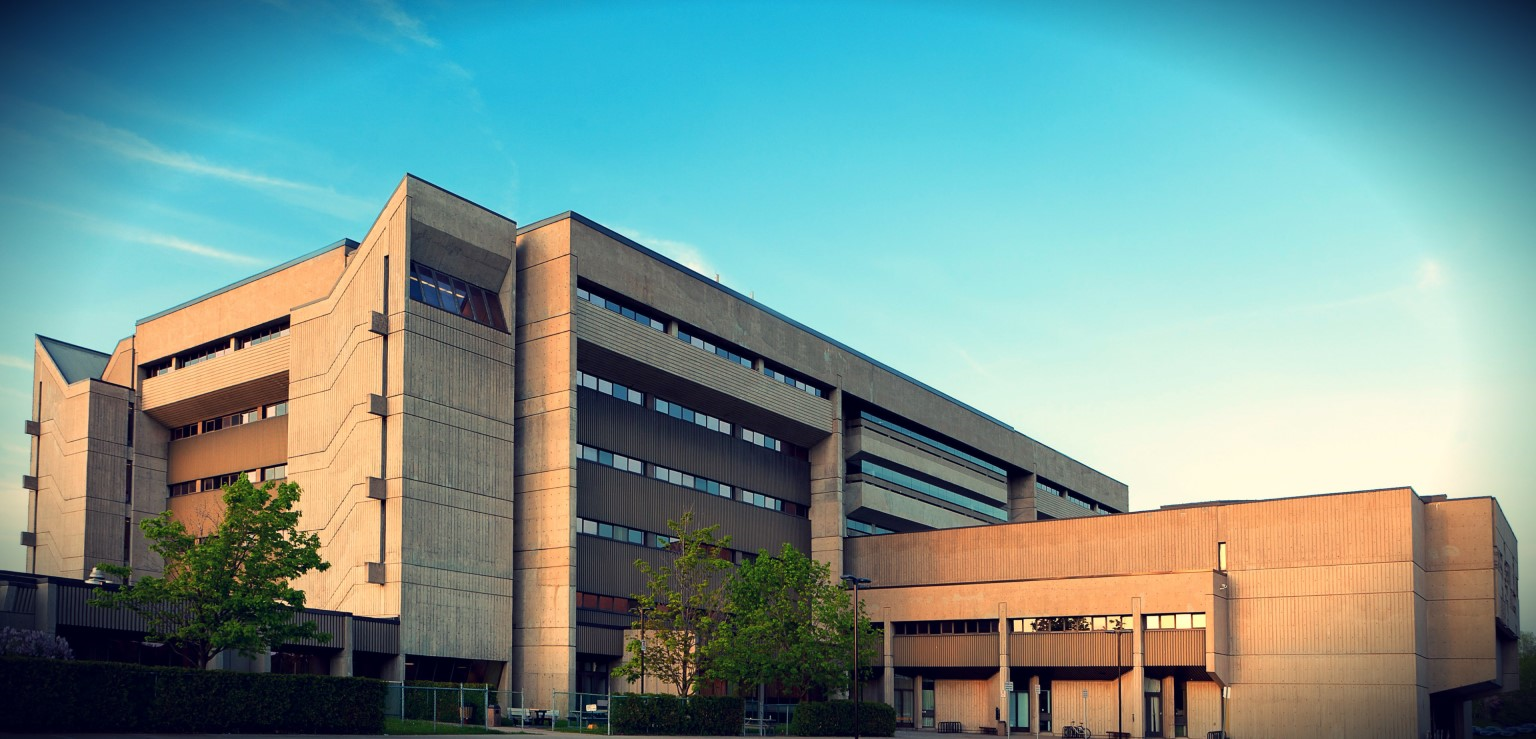
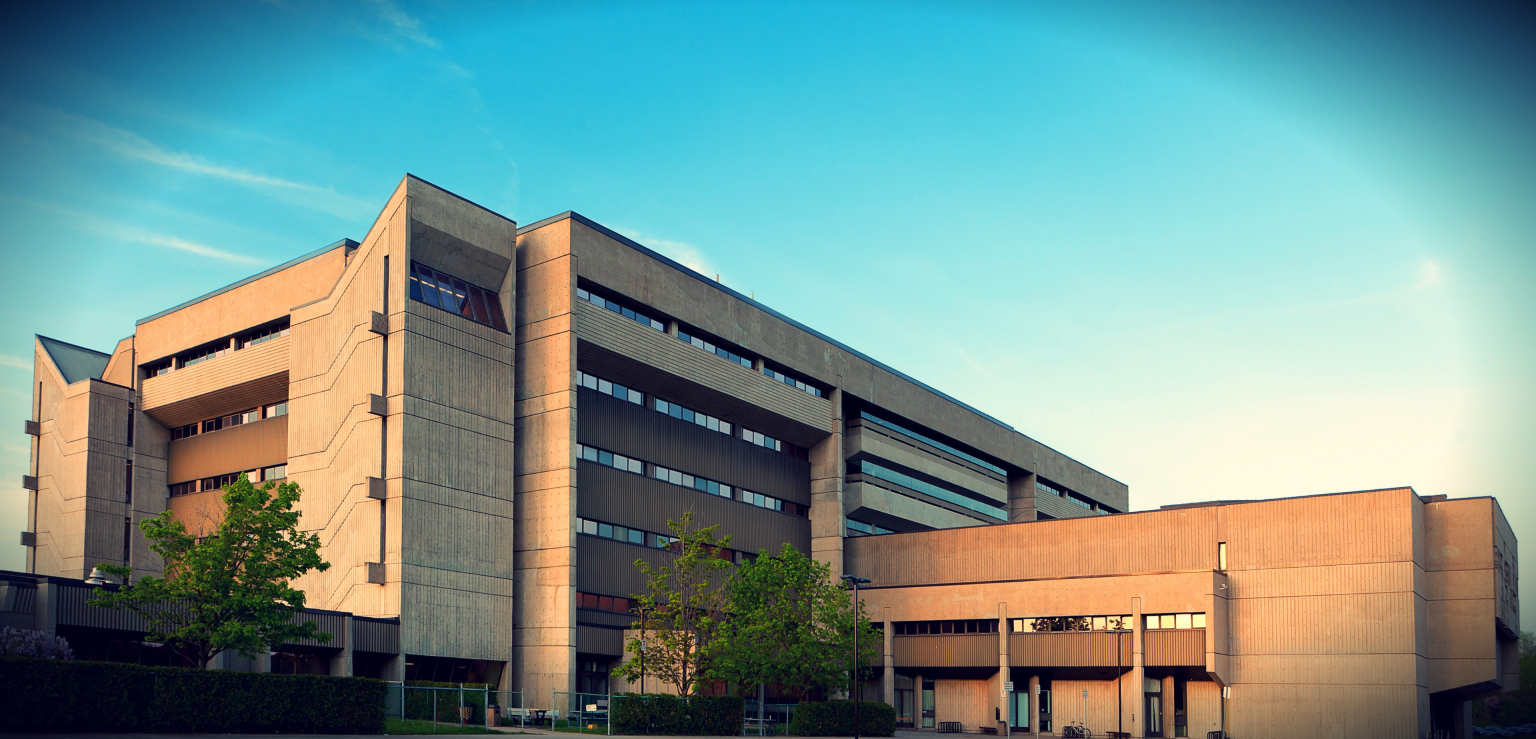
cpage onnexion responsive à 100%, reste inscription

Changed region(s): [[0.4062, 0.8092, 0.4375, 0.8403]]

diff --git a/my-react-app/src/components/utilisateurs/login/pages/Connexion.css b/my-react-app/src/components/utilisateurs/login/pages/Connexion.css
@@ -1,31 +1,115 @@
-html, body, #app, #app>div {
-    height: 100%
-}
-
-.imageLogo {
-    left: 36px;
-    top: 36px;
-    position: absolute;
-    justify-content: center;
+.appConnexion {
+    display: flex;
+    flex-direction: column;
     align-items: center;
-    gap: 8px;
-    display: inline-flex
-}
-
-.imageBackground {
-    display: block;
-    margin-left: auto;
+    gap: 20px;
+    height: auto;
+    font-family: 'Roboto';
 }
 
 .formConnexion {
-    left: 100px;
-    top: 180px;
-    position: absolute;
+    top: 200px;
+    position: relative;
     flex-direction: column;
-    justify-content: flex-start;
     align-items: center;
     gap: 40px;
     display: inline-flex;
+    overflow: auto;
+    height: 85%;
+}
+
+@media screen and (min-width: 1300px) {
+    .appConnexion {
+        height: 100vh;
+        background-image: url('../../../../images/backgroundUserMainXL.png');
+        background-repeat: no-repeat;
+        background-position-x: right;
+        background-size: auto 100%;
+        overflow: auto;
+    }
+
+    .formConnexion {
+        right: 30%;
+        top: 101px;
+        position: relative;
+        width: 500px;
+        flex-direction: column;
+        align-items: center;
+        gap: 40px;
+    }
+
+    .imageLogo {
+        left: 36px;
+        top: 36px;
+        position: absolute;
+        justify-content: center;
+        align-items: center;
+        gap: 8px;
+        display: inline-flex
+    }
+}
+
+@media screen and (max-width: 800px) {
+    .imageLogo {
+        right: 10px;
+        top: 25px;
+        position: absolute;
+        justify-content: center;
+        align-items: center;
+        gap: 8px;
+        display: inline-flex
+    }
+}
+
+@media screen and (max-width: 1300px) and (min-width: 800px) {
+    .appConnexion {
+        height: 100vh;
+        background-image: url('../../../../images/backgroundUserMainLg.png');
+        background-repeat: no-repeat;
+        background-position-x: right;
+        background-size: 50% 100%;
+        overflow: auto;
+    }
+
+    .formConnexion {
+        right: 25%;
+        top: 101px;
+        position: relative;
+        flex-direction: column;
+        align-items: flex-start;
+        gap: 40px;
+        display: inline-flex;
+        overflow: auto;
+        height: 85%;
+    }
+
+    .imageLogo {
+        left: 36px;
+        top: 36px;
+        position: absolute;
+        justify-content: center;
+        align-items: center;
+        gap: 8px;
+        display: inline-flex
+    }
+}
+
+@media screen and (max-width: 800px) and (min-width: 600px) {
+    .appConnexion {
+        background-image: url('../../../../images/backgroundUserMainM.png');
+        background-size: 100% 186px;
+        background-repeat: no-repeat;
+        background-position-x: initial;
+    }
+}
+
+@media screen and (max-width: 600px) {
+    .appConnexion {
+        background-image: url('../../../../images/backgroundUserMainSm.png');
+        background-size: 100% 186px;
+        background-repeat: no-repeat;
+        background-position-x: initial;
+    }
 }
 
 .inputStyle {
@@ -58,20 +142,4 @@ html, body, #app, #app>div {
     font-family: Roboto;
     font-weight: 400;
     word-wrap: break-word;
-}
-
-.inputConnexion {
-    color: white;
-    font-size: 16px;
-    font-family: Roboto, sans-serif;
-    font-weight: 500;
-    word-wrap: break-word;
-}
-
-.linkToInscriptionButton {
-    color: #DE8C73;
-    font-size: 20px;
-    font-family: Roboto, sans-serif;
-    font-weight: 500;
-    word-wrap: break-word
 }

diff --git a/my-react-app/src/components/utilisateurs/inscription/etudiant/InscriptionEtudiant.js b/my-react-app/src/components/utilisateurs/inscription/etudiant/InscriptionEtudiant.js
@@ -1,21 +1,16 @@
 import al from "../../../../images/al.png"
 import {Link} from "react-router-dom";
 import React from "react";
-import backgroundConnexionInscription from "../../../../images/backgroundConnexionInscription.png";
 import InscriptionPageE from "./InscriptionPageE";
 
 const InscriptionEtudiant = () => {
     return (
-        <div>
+        <div className="appConnexion">
             <Link to="/" className="imageLogo">
                 <img style={{width: 230}} src={al} alt="logo"/>
             </Link>
 
-            <div>
-                <img className="imageBackground" src={backgroundConnexionInscription}  alt="photo école"/>
-            </div>
-
-            <div className="formInscriptionE">
+            <div className="formConnexion">
                 <InscriptionPageE/>
             </div>
         </div>

diff --git a/my-react-app/src/components/utilisateurs/login/pages/Connexion.js b/my-react-app/src/components/utilisateurs/login/pages/Connexion.js
@@ -1,5 +1,4 @@
 import al from '../../../../images/al.png'
-import backgroundConnexionInscription from '../../../../images/backgroundConnexionInscription.png'
 import React from 'react'
 import "./Connexion.css"
 import ConnexionPage from "./ConnexionPage";
@@ -7,13 +6,10 @@ import {Link} from "react-router-dom";
 
 const Connexion = () => {
     return (
-        <div>
+        <div className="appConnexion">
             <Link to="/" className="imageLogo">
                 <img style={{width: 230}} src={al} alt="logo"/>
             </Link>
-            <div>
-                <img className="imageBackground" src={backgroundConnexionInscription}  alt="photo école"/>
-            </div>
 
             <div className="formConnexion">
                 <ConnexionPage/>

diff --git a/my-react-app/src/components/utilisateurs/login/pages/ConnexionForm.js b/my-react-app/src/components/utilisateurs/login/pages/ConnexionForm.js
@@ -1,7 +1,7 @@
 import {useRef, useState} from "react";
 import './ConnexionPage.css'
 import {Link} from "react-router-dom";
-import "./Connexion.css"
+import "../../login/pages/Connexion.css"
 
 const ConnexionForm = ({onAdd}) => {
     const [email, setEmail] = useState('');
